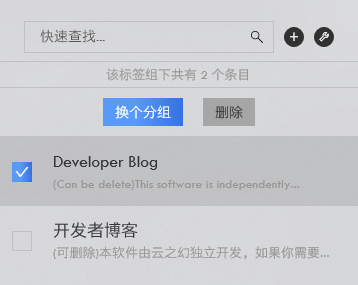
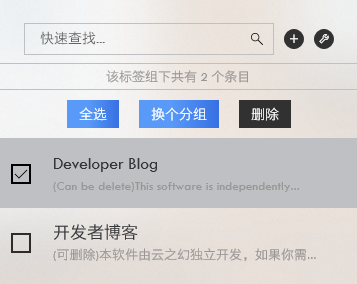
更新博客。

diff --git a/2018/05/31/KAV-软件说明/index.html b/2018/05/31/KAV-软件说明/index.html
@@ -17,7 +17,7 @@
 <div class="info"><br>在你添加条目之前，必须先选中一个非公共级的标签，你添加的条目会加入进该标签组中<br></div>
 
 <p>条目的添加也很简单，在中间的列表中，找到右上角的<code>+</code><br><img src="/images/KAV/04.png" alt="添加条目"><br>在弹出窗口中选择条目的信息类型<br><img src="/images/KAV/05.png" alt="条目类型"><br>然后根据不同的弹出窗口记录好你的信息即可</p>
-<h4 id="条目管理"><a href="#条目管理" class="headerlink" title="条目管理"></a>条目管理</h4><p>条目的列表就在搜索栏下方，通过点击条目，最右侧的显示区域就会显示条目的详细信息。如果你想要删除某个条目，可以直接点击条目右侧的<code>X</code>来删除<br><img src="/images/KAV/06.png" alt="列表显示"><br>但这样一个个地删除似乎有些麻烦？<br>还记得之前的<code>+</code>号吗？它的旁边还有一个扳手一样的按钮哦<br><img src="/images/KAV/04.png" alt="添加条目"><br>这个就是管理按钮了。<br><img src="/images/KAV/08.png" alt="管理条目"><br>点击之后，会弹出一个菜单，点击第一个<code>管理</code>，之后就可以进入管理界面了<br><img src="/images/KAV/09.png" alt="管理条目"><br>点击条目，该条目就会被选中（点击判定有点迷，可能需要多点两下），提供了两种多选操作，转移分组和删除。</p>
+<h4 id="条目管理"><a href="#条目管理" class="headerlink" title="条目管理"></a>条目管理</h4><p>条目的列表就在搜索栏下方，通过点击条目，最右侧的显示区域就会显示条目的详细信息。如果你想要删除某个条目，可以直接点击条目右侧的<code>X</code>来删除<br><img src="/images/KAV/06.png" alt="列表显示"><br>但这样一个个地删除似乎有些麻烦？<br>还记得之前的<code>+</code>号吗？它的旁边还有一个扳手一样的按钮哦<br><img src="/images/KAV/04.png" alt="添加条目"><br>这个就是管理按钮了。<br><img src="/images/KAV/08.png" alt="管理条目"><br>点击之后，会弹出一个菜单，点击第一个<code>管理</code>，之后就可以进入管理界面了<br><img src="/images/KAV/09.png" alt="管理条目"><br>点击条目，该条目就会被选中，提供了三种多选操作，<code>全选</code> <code>换个分组</code>和<code>删除</code>。</p>
 <p>如果我要修改条目的内容呢？</p>
 <p>在详情页，你可以看到如下四个按钮（有的是三个）：<br><img src="/images/KAV/07.png" alt="条目处理"><br>这些按钮都是和该条目类型相关的处理程序，而你要找的修改条目信息是第二个，就是那个像笔的图标</p>
 <h5 id="其它按钮功能"><a href="#其它按钮功能" class="headerlink" title="其它按钮功能"></a>其它按钮功能</h5><ul>
@@ -64,7 +64,7 @@
 <p>我的个人邮箱：<code>Thansy@foxmail.com</code></p>
 <hr>
 <p>以上就是关于Key &amp; Value 键值对 应用的全部内容了，感谢你能耐心地看完，祝你使用愉快 😊</p>
-</div><div class="post-footer"><div class="meta"><div class="info"><i class="fa fa-sun-o"></i><span class="date">2018-05-31</span><i class="fa fa-tag"></i><a class="tag" href="/tags/KAV/" title="KAV">KAV </a></div></div></div></div><div class="share"><div class="evernote"><a class="fa fa-bookmark" href="javascript:(function(){EN_CLIP_HOST='http://www.evernote.com';try{var%20x=document.createElement('SCRIPT');x.type='text/javascript';x.src=EN_CLIP_HOST+'/public/bookmarkClipper.js?'+(new%20Date().getTime()/100000);document.getElementsByTagName('head')[0].appendChild(x);}catch(e){location.href=EN_CLIP_HOST+'/clip.action?url='+encodeURIComponent(location.href)+'&amp;title='+encodeURIComponent(document.title);}})();" ref="nofollow" target="_blank"></a></div><div class="weibo"><a class="fa fa-weibo" href="javascript:void((function(s,d,e){try{}catch(e){}var f='http://service.weibo.com/share/share.php?',u=d.location.href,p=['url=',e(u),'&amp;title=',e(d.title),'&amp;appkey=2924220432'].join('');function a(){if(!window.open([f,p].join(''),'mb',['toolbar=0,status=0,resizable=1,width=620,height=450,left=',(s.width-620)/2,',top=',(s.height-450)/2].join('')))u.href=[f,p].join('');};if(/Firefox/.test(navigator.userAgent)){setTimeout(a,0)}else{a()}})(screen,document,encodeURIComponent));"></a></div><div class="twitter"><a class="fa fa-twitter" href="http://twitter.com/home?status=,https://blog.richasy.com/2018/05/31/KAV-软件说明/,云之幻-Richasy,KAV-软件说明,;"></a></div></div><div class="pagination"><ul class="clearfix"><li class="pre pagbuttons"><a class="btn" role="navigation" href="/2018/05/31/软件隐私策略/" title="软件隐私策略">上一篇</a></li><li class="next pagbuttons"><a class="btn" role="navigation" href="/2018/05/19/Word排版-页眉与页脚设置/" title="Word排版-页眉与页脚设置">下一篇</a></li></ul></div><a id="comments"></a><div id="vcomments" style="margin:0 30px;"></div><script src="//cdn1.lncld.net/static/js/3.0.4/av-min.js"></script><script src="//cdn.jsdelivr.net/gh/xcss/valine@v1.1.7/dist/Valine.min.js?v=undefined"></script><script>var valine = new Valine({
+</div><div class="post-footer"><div class="meta"><div class="info"><i class="fa fa-sun-o"></i><span class="date">2018-05-31</span><i class="fa fa-tag"></i><a class="tag" href="/tags/KAV/" title="KAV">KAV </a></div></div></div></div><div class="share"><div class="evernote"><a class="fa fa-bookmark" href="javascript:(function(){EN_CLIP_HOST='http://www.evernote.com';try{var%20x=document.createElement('SCRIPT');x.type='text/javascript';x.src=EN_CLIP_HOST+'/public/bookmarkClipper.js?'+(new%20Date().getTime()/100000);document.getElementsByTagName('head')[0].appendChild(x);}catch(e){location.href=EN_CLIP_HOST+'/clip.action?url='+encodeURIComponent(location.href)+'&amp;title='+encodeURIComponent(document.title);}})();" ref="nofollow" target="_blank"></a></div><div class="weibo"><a class="fa fa-weibo" href="javascript:void((function(s,d,e){try{}catch(e){}var f='http://service.weibo.com/share/share.php?',u=d.location.href,p=['url=',e(u),'&amp;title=',e(d.title),'&amp;appkey=2924220432'].join('');function a(){if(!window.open([f,p].join(''),'mb',['toolbar=0,status=0,resizable=1,width=620,height=450,left=',(s.width-620)/2,',top=',(s.height-450)/2].join('')))u.href=[f,p].join('');};if(/Firefox/.test(navigator.userAgent)){setTimeout(a,0)}else{a()}})(screen,document,encodeURIComponent));"></a></div><div class="twitter"><a class="fa fa-twitter" href="http://twitter.com/home?status=,https://blog.richasy.com/2018/05/31/KAV-软件说明/,云之幻-Richasy,KAV-软件说明,;"></a></div></div><div class="pagination"><ul class="clearfix"><li class="pre pagbuttons"><a class="btn" role="navigation" href="/2018/05/31/软件隐私策略/" title="软件隐私策略">Post Anterior</a></li><li class="next pagbuttons"><a class="btn" role="navigation" href="/2018/05/19/Word排版-页眉与页脚设置/" title="Word排版-页眉与页脚设置">Próximo post</a></li></ul></div><a id="comments"></a><div id="vcomments" style="margin:0 30px;"></div><script src="//cdn1.lncld.net/static/js/3.0.4/av-min.js"></script><script src="//cdn.jsdelivr.net/gh/xcss/valine@v1.1.7/dist/Valine.min.js?v=undefined"></script><script>var valine = new Valine({
   el:'#vcomments',
   notify:true || false, 
   verify:true|| false, 

diff --git a/2018/05/16/所谓语音助手，究竟该发展成什么样？/index.html b/2018/05/16/所谓语音助手，究竟该发展成什么样？/index.html
@@ -44,7 +44,7 @@
 </blockquote>
 <p>老罗在发布会上说，现在语音助手的方向走错了，然后他展示了自己的方向：<strong>用语音触摸操作代替键鼠操作</strong>。<br>谁对谁错且不论，在我眼里，语音操作和键鼠操作应当是互补的，键鼠操作来完成我们的主要工作，比如写代码(反正拿语音写代码我是不敢试的)。在写代码的时候你可能突然想听首歌，随口说一句”小娜，放首歌”，于是就能听歌了。<br>这样的操作模式想想都觉得感动。</p>
 <h3 id="结语"><a href="#结语" class="headerlink" title="结语"></a>结语</h3><p>乘兴写作，随手写成。其中疏漏之处应该不少，不过我所要表达的意思应当算表达清楚了。各位看官对语音助手又有什么想法呢？期待能和各位交流。</p>
-</div><div class="post-footer"><div class="meta"><div class="info"><i class="fa fa-sun-o"></i><span class="date">2018-05-16</span><i class="fa fa-tag"></i><a class="tag" href="/tags/杂谈/" title="杂谈">杂谈 </a></div></div></div></div><div class="share"><div class="evernote"><a class="fa fa-bookmark" href="javascript:(function(){EN_CLIP_HOST='http://www.evernote.com';try{var%20x=document.createElement('SCRIPT');x.type='text/javascript';x.src=EN_CLIP_HOST+'/public/bookmarkClipper.js?'+(new%20Date().getTime()/100000);document.getElementsByTagName('head')[0].appendChild(x);}catch(e){location.href=EN_CLIP_HOST+'/clip.action?url='+encodeURIComponent(location.href)+'&amp;title='+encodeURIComponent(document.title);}})();" ref="nofollow" target="_blank"></a></div><div class="weibo"><a class="fa fa-weibo" href="javascript:void((function(s,d,e){try{}catch(e){}var f='http://service.weibo.com/share/share.php?',u=d.location.href,p=['url=',e(u),'&amp;title=',e(d.title),'&amp;appkey=2924220432'].join('');function a(){if(!window.open([f,p].join(''),'mb',['toolbar=0,status=0,resizable=1,width=620,height=450,left=',(s.width-620)/2,',top=',(s.height-450)/2].join('')))u.href=[f,p].join('');};if(/Firefox/.test(navigator.userAgent)){setTimeout(a,0)}else{a()}})(screen,document,encodeURIComponent));"></a></div><div class="twitter"><a class="fa fa-twitter" href="http://twitter.com/home?status=,https://blog.richasy.com/2018/05/16/所谓语音助手，究竟该发展成什么样？/,云之幻-Richasy,所谓语音助手，究竟该发展成什么样？,;"></a></div></div><div class="pagination"><ul class="clearfix"><li class="pre pagbuttons"><a class="btn" role="navigation" href="/2018/05/19/Word排版-页眉与页脚设置/" title="Word排版-页眉与页脚设置">上一篇</a></li><li class="next pagbuttons"><a class="btn" role="navigation" href="/2018/05/12/Warframe-Alerting-可公开API文档/" title="Warframe Alerting 可公开API文档">下一篇</a></li></ul></div><a id="comments"></a><div id="vcomments" style="margin:0 30px;"></div><script src="//cdn1.lncld.net/static/js/3.0.4/av-min.js"></script><script src="//cdn.jsdelivr.net/gh/xcss/valine@v1.1.7/dist/Valine.min.js?v=undefined"></script><script>var valine = new Valine({
+</div><div class="post-footer"><div class="meta"><div class="info"><i class="fa fa-sun-o"></i><span class="date">2018-05-16</span><i class="fa fa-tag"></i><a class="tag" href="/tags/杂谈/" title="杂谈">杂谈 </a></div></div></div></div><div class="share"><div class="evernote"><a class="fa fa-bookmark" href="javascript:(function(){EN_CLIP_HOST='http://www.evernote.com';try{var%20x=document.createElement('SCRIPT');x.type='text/javascript';x.src=EN_CLIP_HOST+'/public/bookmarkClipper.js?'+(new%20Date().getTime()/100000);document.getElementsByTagName('head')[0].appendChild(x);}catch(e){location.href=EN_CLIP_HOST+'/clip.action?url='+encodeURIComponent(location.href)+'&amp;title='+encodeURIComponent(document.title);}})();" ref="nofollow" target="_blank"></a></div><div class="weibo"><a class="fa fa-weibo" href="javascript:void((function(s,d,e){try{}catch(e){}var f='http://service.weibo.com/share/share.php?',u=d.location.href,p=['url=',e(u),'&amp;title=',e(d.title),'&amp;appkey=2924220432'].join('');function a(){if(!window.open([f,p].join(''),'mb',['toolbar=0,status=0,resizable=1,width=620,height=450,left=',(s.width-620)/2,',top=',(s.height-450)/2].join('')))u.href=[f,p].join('');};if(/Firefox/.test(navigator.userAgent)){setTimeout(a,0)}else{a()}})(screen,document,encodeURIComponent));"></a></div><div class="twitter"><a class="fa fa-twitter" href="http://twitter.com/home?status=,https://blog.richasy.com/2018/05/16/所谓语音助手，究竟该发展成什么样？/,云之幻-Richasy,所谓语音助手，究竟该发展成什么样？,;"></a></div></div><div class="pagination"><ul class="clearfix"><li class="pre pagbuttons"><a class="btn" role="navigation" href="/2018/05/19/Word排版-页眉与页脚设置/" title="Word排版-页眉与页脚设置">Post Anterior</a></li><li class="next pagbuttons"><a class="btn" role="navigation" href="/2018/05/12/Warframe-Alerting-可公开API文档/" title="Warframe Alerting 可公开API文档">Próximo post</a></li></ul></div><a id="comments"></a><div id="vcomments" style="margin:0 30px;"></div><script src="//cdn1.lncld.net/static/js/3.0.4/av-min.js"></script><script src="//cdn.jsdelivr.net/gh/xcss/valine@v1.1.7/dist/Valine.min.js?v=undefined"></script><script>var valine = new Valine({
   el:'#vcomments',
   notify:true || false, 
   verify:true|| false, 

diff --git a/2018/05/19/Word排版-页眉与页脚设置/index.html b/2018/05/19/Word排版-页眉与页脚设置/index.html
@@ -84,7 +84,7 @@
 </li>
 </ol>
 <h3 id="结语"><a href="#结语" class="headerlink" title="结语"></a>结语</h3><p><div class="tip"><br>由于一些奇怪的原因，在插入<code>分节符(下一页)</code>后会出现隐藏的空白页，目前尚不知具体原因，所以请尽量不要在正文中用<code>分节符(下一页)</code><br>而在出现空白页后，可以通过导出PDF，并利用PDF编辑器将空白页删除的方式解决，或者在打印时去掉空白页。由于不在正文，所以不影响页码<br></div><br>我已经尽我所能将设置页眉页脚的过程详细描述了，感谢你能耐心看完。<br>请按着上面的指示进行操作，不懂的就问我吧</p>
-</div><div class="post-footer"><div class="meta"><div class="info"><i class="fa fa-sun-o"></i><span class="date">2018-05-18</span><i class="fa fa-tag"></i><a class="tag" href="/tags/Word/" title="Word">Word </a></div></div></div></div><div class="share"><div class="evernote"><a class="fa fa-bookmark" href="javascript:(function(){EN_CLIP_HOST='http://www.evernote.com';try{var%20x=document.createElement('SCRIPT');x.type='text/javascript';x.src=EN_CLIP_HOST+'/public/bookmarkClipper.js?'+(new%20Date().getTime()/100000);document.getElementsByTagName('head')[0].appendChild(x);}catch(e){location.href=EN_CLIP_HOST+'/clip.action?url='+encodeURIComponent(location.href)+'&amp;title='+encodeURIComponent(document.title);}})();" ref="nofollow" target="_blank"></a></div><div class="weibo"><a class="fa fa-weibo" href="javascript:void((function(s,d,e){try{}catch(e){}var f='http://service.weibo.com/share/share.php?',u=d.location.href,p=['url=',e(u),'&amp;title=',e(d.title),'&amp;appkey=2924220432'].join('');function a(){if(!window.open([f,p].join(''),'mb',['toolbar=0,status=0,resizable=1,width=620,height=450,left=',(s.width-620)/2,',top=',(s.height-450)/2].join('')))u.href=[f,p].join('');};if(/Firefox/.test(navigator.userAgent)){setTimeout(a,0)}else{a()}})(screen,document,encodeURIComponent));"></a></div><div class="twitter"><a class="fa fa-twitter" href="http://twitter.com/home?status=,https://blog.richasy.com/2018/05/19/Word排版-页眉与页脚设置/,云之幻-Richasy,Word排版-页眉与页脚设置,;"></a></div></div><div class="pagination"><ul class="clearfix"><li class="pre pagbuttons"><a class="btn" role="navigation" href="/2018/05/31/KAV-软件说明/" title="KAV-软件说明">上一篇</a></li><li class="next pagbuttons"><a class="btn" role="navigation" href="/2018/05/16/所谓语音助手，究竟该发展成什么样？/" title="所谓语音助手，究竟该发展成什么样？">下一篇</a></li></ul></div><a id="comments"></a><div id="vcomments" style="margin:0 30px;"></div><script src="//cdn1.lncld.net/static/js/3.0.4/av-min.js"></script><script src="//cdn.jsdelivr.net/gh/xcss/valine@v1.1.7/dist/Valine.min.js?v=undefined"></script><script>var valine = new Valine({
+</div><div class="post-footer"><div class="meta"><div class="info"><i class="fa fa-sun-o"></i><span class="date">2018-05-18</span><i class="fa fa-tag"></i><a class="tag" href="/tags/Word/" title="Word">Word </a></div></div></div></div><div class="share"><div class="evernote"><a class="fa fa-bookmark" href="javascript:(function(){EN_CLIP_HOST='http://www.evernote.com';try{var%20x=document.createElement('SCRIPT');x.type='text/javascript';x.src=EN_CLIP_HOST+'/public/bookmarkClipper.js?'+(new%20Date().getTime()/100000);document.getElementsByTagName('head')[0].appendChild(x);}catch(e){location.href=EN_CLIP_HOST+'/clip.action?url='+encodeURIComponent(location.href)+'&amp;title='+encodeURIComponent(document.title);}})();" ref="nofollow" target="_blank"></a></div><div class="weibo"><a class="fa fa-weibo" href="javascript:void((function(s,d,e){try{}catch(e){}var f='http://service.weibo.com/share/share.php?',u=d.location.href,p=['url=',e(u),'&amp;title=',e(d.title),'&amp;appkey=2924220432'].join('');function a(){if(!window.open([f,p].join(''),'mb',['toolbar=0,status=0,resizable=1,width=620,height=450,left=',(s.width-620)/2,',top=',(s.height-450)/2].join('')))u.href=[f,p].join('');};if(/Firefox/.test(navigator.userAgent)){setTimeout(a,0)}else{a()}})(screen,document,encodeURIComponent));"></a></div><div class="twitter"><a class="fa fa-twitter" href="http://twitter.com/home?status=,https://blog.richasy.com/2018/05/19/Word排版-页眉与页脚设置/,云之幻-Richasy,Word排版-页眉与页脚设置,;"></a></div></div><div class="pagination"><ul class="clearfix"><li class="pre pagbuttons"><a class="btn" role="navigation" href="/2018/05/31/KAV-软件说明/" title="KAV-软件说明">Post Anterior</a></li><li class="next pagbuttons"><a class="btn" role="navigation" href="/2018/05/16/所谓语音助手，究竟该发展成什么样？/" title="所谓语音助手，究竟该发展成什么样？">Próximo post</a></li></ul></div><a id="comments"></a><div id="vcomments" style="margin:0 30px;"></div><script src="//cdn1.lncld.net/static/js/3.0.4/av-min.js"></script><script src="//cdn.jsdelivr.net/gh/xcss/valine@v1.1.7/dist/Valine.min.js?v=undefined"></script><script>var valine = new Valine({
   el:'#vcomments',
   notify:true || false, 
   verify:true|| false, 

diff --git a/2018/05/31/软件隐私策略/index.html b/2018/05/31/软件隐私策略/index.html
@@ -22,7 +22,7 @@
 <p>c) 通过开发者所设cookies所取得的有关信息，将适用本政策。 </p>
 <h4 id="·6-信息安全"><a href="#·6-信息安全" class="headerlink" title="·6. 信息安全"></a>·6. 信息安全</h4><p>a) 开发者帐号均有安全保护功能，请妥善保管您的用户名及密码信息。开发者将通过对用户密码进行加密等安全措施确保您的信息不丢失，不被滥用和变造。尽管有前述安全措施，但同时也请您注意在信息网络上不存在“完善的安全措施”。 </p>
 <p>b) 在使用开发者网络服务进行网上交易时，您不可避免的要向交易对方或潜在的交易对方披露自己的个人信息，如联络方式或者邮政地址。请您妥善保护自己的个人信息，仅在必要的情形下向他人提供。如您发现自己的个人信息泄密，尤其是开发者用户名及密码发生泄露，请您立即联络开发者开发者，以便开发者采取相应措施。</p>
-</div><div class="post-footer"><div class="meta"><div class="info"><i class="fa fa-sun-o"></i><span class="date">2018-05-31</span><i class="fa fa-tag"></i><a class="tag" href="/tags/软件/" title="软件">软件 </a></div></div></div></div><div class="share"><div class="evernote"><a class="fa fa-bookmark" href="javascript:(function(){EN_CLIP_HOST='http://www.evernote.com';try{var%20x=document.createElement('SCRIPT');x.type='text/javascript';x.src=EN_CLIP_HOST+'/public/bookmarkClipper.js?'+(new%20Date().getTime()/100000);document.getElementsByTagName('head')[0].appendChild(x);}catch(e){location.href=EN_CLIP_HOST+'/clip.action?url='+encodeURIComponent(location.href)+'&amp;title='+encodeURIComponent(document.title);}})();" ref="nofollow" target="_blank"></a></div><div class="weibo"><a class="fa fa-weibo" href="javascript:void((function(s,d,e){try{}catch(e){}var f='http://service.weibo.com/share/share.php?',u=d.location.href,p=['url=',e(u),'&amp;title=',e(d.title),'&amp;appkey=2924220432'].join('');function a(){if(!window.open([f,p].join(''),'mb',['toolbar=0,status=0,resizable=1,width=620,height=450,left=',(s.width-620)/2,',top=',(s.height-450)/2].join('')))u.href=[f,p].join('');};if(/Firefox/.test(navigator.userAgent)){setTimeout(a,0)}else{a()}})(screen,document,encodeURIComponent));"></a></div><div class="twitter"><a class="fa fa-twitter" href="http://twitter.com/home?status=,https://blog.richasy.com/2018/05/31/软件隐私策略/,云之幻-Richasy,软件隐私策略,;"></a></div></div><div class="pagination"><ul class="clearfix"><li class="next pagbuttons"><a class="btn" role="navigation" href="/2018/05/31/KAV-软件说明/" title="KAV-软件说明">下一篇</a></li></ul></div><a id="comments"></a><div id="vcomments" style="margin:0 30px;"></div><script src="//cdn1.lncld.net/static/js/3.0.4/av-min.js"></script><script src="//cdn.jsdelivr.net/gh/xcss/valine@v1.1.7/dist/Valine.min.js?v=undefined"></script><script>var valine = new Valine({
+</div><div class="post-footer"><div class="meta"><div class="info"><i class="fa fa-sun-o"></i><span class="date">2018-05-31</span><i class="fa fa-tag"></i><a class="tag" href="/tags/软件/" title="软件">软件 </a></div></div></div></div><div class="share"><div class="evernote"><a class="fa fa-bookmark" href="javascript:(function(){EN_CLIP_HOST='http://www.evernote.com';try{var%20x=document.createElement('SCRIPT');x.type='text/javascript';x.src=EN_CLIP_HOST+'/public/bookmarkClipper.js?'+(new%20Date().getTime()/100000);document.getElementsByTagName('head')[0].appendChild(x);}catch(e){location.href=EN_CLIP_HOST+'/clip.action?url='+encodeURIComponent(location.href)+'&amp;title='+encodeURIComponent(document.title);}})();" ref="nofollow" target="_blank"></a></div><div class="weibo"><a class="fa fa-weibo" href="javascript:void((function(s,d,e){try{}catch(e){}var f='http://service.weibo.com/share/share.php?',u=d.location.href,p=['url=',e(u),'&amp;title=',e(d.title),'&amp;appkey=2924220432'].join('');function a(){if(!window.open([f,p].join(''),'mb',['toolbar=0,status=0,resizable=1,width=620,height=450,left=',(s.width-620)/2,',top=',(s.height-450)/2].join('')))u.href=[f,p].join('');};if(/Firefox/.test(navigator.userAgent)){setTimeout(a,0)}else{a()}})(screen,document,encodeURIComponent));"></a></div><div class="twitter"><a class="fa fa-twitter" href="http://twitter.com/home?status=,https://blog.richasy.com/2018/05/31/软件隐私策略/,云之幻-Richasy,软件隐私策略,;"></a></div></div><div class="pagination"><ul class="clearfix"><li class="next pagbuttons"><a class="btn" role="navigation" href="/2018/05/31/KAV-软件说明/" title="KAV-软件说明">Próximo post</a></li></ul></div><a id="comments"></a><div id="vcomments" style="margin:0 30px;"></div><script src="//cdn1.lncld.net/static/js/3.0.4/av-min.js"></script><script src="//cdn.jsdelivr.net/gh/xcss/valine@v1.1.7/dist/Valine.min.js?v=undefined"></script><script>var valine = new Valine({
   el:'#vcomments',
   notify:true || false, 
   verify:true|| false, 

diff --git a/2018/05/12/Warframe-Alerting-可公开API文档/index.html b/2018/05/12/Warframe-Alerting-可公开API文档/index.html
@@ -48,7 +48,7 @@
 <li><code>WF_Invasion</code> 入侵奖励物品表(囊括入侵中可能出现的奖励，相比词典，多了亡魂、破坏者等武器部件)</li>
 </ol>
 <p><strong>Github地址</strong>: <a href="https://github.com/Richasy/WFA_Lexicon" title="WFA词库" target="_blank" rel="external">点此前往</a></p>
-</div><div class="post-footer"><div class="meta"><div class="info"><i class="fa fa-sun-o"></i><span class="date">2018-05-12</span><i class="fa fa-tag"></i><a class="tag" href="/tags/WFA/" title="WFA">WFA </a></div></div></div></div><div class="share"><div class="evernote"><a class="fa fa-bookmark" href="javascript:(function(){EN_CLIP_HOST='http://www.evernote.com';try{var%20x=document.createElement('SCRIPT');x.type='text/javascript';x.src=EN_CLIP_HOST+'/public/bookmarkClipper.js?'+(new%20Date().getTime()/100000);document.getElementsByTagName('head')[0].appendChild(x);}catch(e){location.href=EN_CLIP_HOST+'/clip.action?url='+encodeURIComponent(location.href)+'&amp;title='+encodeURIComponent(document.title);}})();" ref="nofollow" target="_blank"></a></div><div class="weibo"><a class="fa fa-weibo" href="javascript:void((function(s,d,e){try{}catch(e){}var f='http://service.weibo.com/share/share.php?',u=d.location.href,p=['url=',e(u),'&amp;title=',e(d.title),'&amp;appkey=2924220432'].join('');function a(){if(!window.open([f,p].join(''),'mb',['toolbar=0,status=0,resizable=1,width=620,height=450,left=',(s.width-620)/2,',top=',(s.height-450)/2].join('')))u.href=[f,p].join('');};if(/Firefox/.test(navigator.userAgent)){setTimeout(a,0)}else{a()}})(screen,document,encodeURIComponent));"></a></div><div class="twitter"><a class="fa fa-twitter" href="http://twitter.com/home?status=,https://blog.richasy.com/2018/05/12/Warframe-Alerting-可公开API文档/,云之幻-Richasy,Warframe Alerting 可公开API文档,;"></a></div></div><div class="pagination"><ul class="clearfix"><li class="pre pagbuttons"><a class="btn" role="navigation" href="/2018/05/16/所谓语音助手，究竟该发展成什么样？/" title="所谓语音助手，究竟该发展成什么样？">上一篇</a></li></ul></div><a id="comments"></a><div id="vcomments" style="margin:0 30px;"></div><script src="//cdn1.lncld.net/static/js/3.0.4/av-min.js"></script><script src="//cdn.jsdelivr.net/gh/xcss/valine@v1.1.7/dist/Valine.min.js?v=undefined"></script><script>var valine = new Valine({
+</div><div class="post-footer"><div class="meta"><div class="info"><i class="fa fa-sun-o"></i><span class="date">2018-05-12</span><i class="fa fa-tag"></i><a class="tag" href="/tags/WFA/" title="WFA">WFA </a></div></div></div></div><div class="share"><div class="evernote"><a class="fa fa-bookmark" href="javascript:(function(){EN_CLIP_HOST='http://www.evernote.com';try{var%20x=document.createElement('SCRIPT');x.type='text/javascript';x.src=EN_CLIP_HOST+'/public/bookmarkClipper.js?'+(new%20Date().getTime()/100000);document.getElementsByTagName('head')[0].appendChild(x);}catch(e){location.href=EN_CLIP_HOST+'/clip.action?url='+encodeURIComponent(location.href)+'&amp;title='+encodeURIComponent(document.title);}})();" ref="nofollow" target="_blank"></a></div><div class="weibo"><a class="fa fa-weibo" href="javascript:void((function(s,d,e){try{}catch(e){}var f='http://service.weibo.com/share/share.php?',u=d.location.href,p=['url=',e(u),'&amp;title=',e(d.title),'&amp;appkey=2924220432'].join('');function a(){if(!window.open([f,p].join(''),'mb',['toolbar=0,status=0,resizable=1,width=620,height=450,left=',(s.width-620)/2,',top=',(s.height-450)/2].join('')))u.href=[f,p].join('');};if(/Firefox/.test(navigator.userAgent)){setTimeout(a,0)}else{a()}})(screen,document,encodeURIComponent));"></a></div><div class="twitter"><a class="fa fa-twitter" href="http://twitter.com/home?status=,https://blog.richasy.com/2018/05/12/Warframe-Alerting-可公开API文档/,云之幻-Richasy,Warframe Alerting 可公开API文档,;"></a></div></div><div class="pagination"><ul class="clearfix"><li class="pre pagbuttons"><a class="btn" role="navigation" href="/2018/05/16/所谓语音助手，究竟该发展成什么样？/" title="所谓语音助手，究竟该发展成什么样？">Post Anterior</a></li></ul></div><a id="comments"></a><div id="vcomments" style="margin:0 30px;"></div><script src="//cdn1.lncld.net/static/js/3.0.4/av-min.js"></script><script src="//cdn.jsdelivr.net/gh/xcss/valine@v1.1.7/dist/Valine.min.js?v=undefined"></script><script>var valine = new Valine({
   el:'#vcomments',
   notify:true || false, 
   verify:true|| false, 
